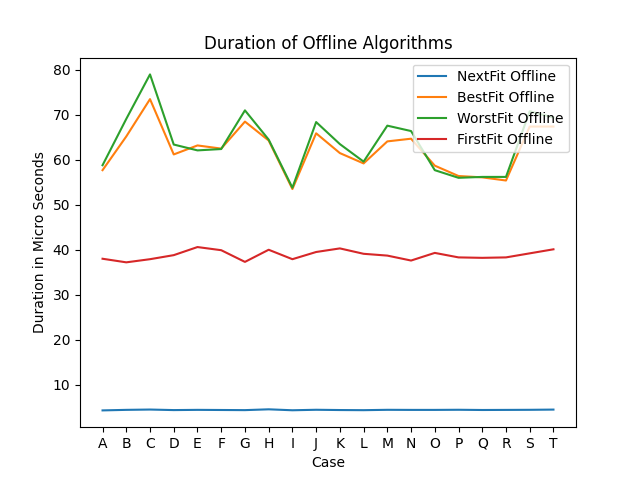
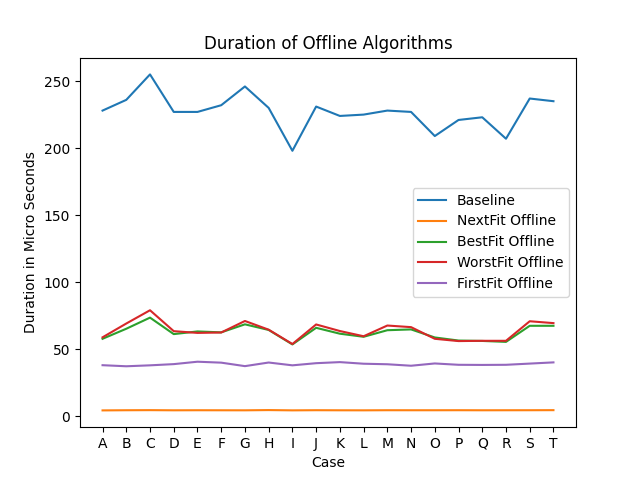
updated benchmark to include baseline

diff --git a/benchmark.py b/benchmark.py
@@ -1,14 +1,14 @@
 import pyperf
 from os import listdir
 from os.path import isfile, join, basename
-from macpacking.algorithms.baseline import MultiwayNumberPartitioning as base
+from macpacking.algorithms.baseline import BenMaier as bp_base, MultiwayNumberPartitioning as multiway_base
 from macpacking.algorithms.offline import (
     NextFitOff as NFOff,
     WorstFitOff as WFOff,
     BestFitOff as BFOff,
     FirstFitOff as FFOff,
     RefinedFirstFitOff as RffOff,
-    MultifitOff as MfOff
+    EmptiestBinOff as EbOff
 )
 
 from macpacking.algorithms.online import (
@@ -18,7 +18,7 @@ from macpacking.algorithms.online import (
     BestFitOn as BFOn,
     FirstFitOn as FFOn,
     RefinedFirstFitOn as RffOn,
-    MultifitOn as MfOn
+    EmptiestBinOn as EbOn
 )
 
 from macpacking.reader import BinppReader
@@ -31,18 +31,19 @@ from macpacking.multiway_adapter import MultiwayAdapter
 CASES = './_datasets/binpp/N1C3W2'
 
 OFFLINE_STRATEGIES = [
-    NFOff, WFOff, BFOff, FFOff, RffOff, base
+    NFOff, WFOff, BFOff, FFOff, RffOff, EbOff, bp_base, multiway_base
 ]
 
 ONLINE_STRATEGIES = [
-    NFOn, WS, WFOn, BFOn, FFOn, RffOn
+    NFOn, WS, WFOn, BFOn, FFOn, RffOn, EbOn
 ]
 
 
 def main():
     '''Example of benchmark code'''
     cases = list_case_files(CASES)
-    run_bench_TFive(cases, [base, MfOn, MfOff])
+    run_bench_binpacking(cases, [NFOff, WFOff, BFOff, FFOff, RffOff, bp_base, NFOn, WS, WFOn, BFOn, FFOn, RffOn])
+    run_bench_TFive(cases, [multiway_base, EbOn, EbOff])
 
 
 def list_case_files(dir: str) -> list[str]:
@@ -74,9 +75,6 @@ def run_bench_TFive(cases: list[str], functions: list):
                 
             name = f'{func.__name__}-{basename(case)}'
             binpacker = func()
-            # print(data)
-            # print(name)
-            # print(binpacker)
             runner.bench_func(name, binpacker, data)
 
 

diff --git a/analysis_tools/graph_bench_results.py b/analysis_tools/graph_bench_results.py
@@ -1,5 +1,26 @@
 import matplotlib.pyplot as plt
 # micro seconds
+Baseline_dur=[
+    228,
+    236,
+    255,
+    227,
+    227,
+    232,
+    246,
+    230,
+    198,
+    231,
+    224,
+    225,
+    228,
+    227,
+    209,
+    221,
+    223,
+    207,
+    237,
+    235]
 NFOff_dur = [
     4.27,
     4.39,
@@ -197,6 +218,27 @@ RffOn_dur = [199, 198, 199, 199, 203, 202, 201, 200, 200,
              199, 202, 200, 199, 199, 201, 200, 199, 200, 199, 200]
 
 # micro seconds
+Baseline_error = [
+    25, 
+    10, 
+    8, 
+    10, 
+    8, 
+    10, 
+    13, 
+    9, 
+    8, 
+    7, 
+    11, 
+    24, 
+    11, 
+    6, 
+    7, 
+    19, 
+    20, 
+    12, 
+    12, 
+    10]
 NFOff_error = [
     0.13,
     0.10,
@@ -244,6 +286,7 @@ def pltOffline():
     plt.clf()
 
     # Plot the points above point graph
+    plt.plot(file_names, Baseline_dur, label="Baseline")
     plt.plot(file_names, NFOff_dur, label="NextFit Offline")
     plt.plot(file_names, BFOff_dur, label="BestFit Offline")
     plt.plot(file_names, WFOff_dur, label="WorstFit Offline")
@@ -251,6 +294,8 @@ def pltOffline():
     plt.plot(file_names, RffOff_dur, label="RefinedFirstFit Offline")
 
     # Plt Error Bars
+    #plt.errorbar(file_names, Baseline_dur, yerr=Baseline_error,
+    #fmt='o', label = "Baseline")
     # plt.errorbar(file_names, NFOff_dur, yerr=NFOff_error,
     # fmt='o', label = "NextFit Offline")
     # plt.errorbar(file_names, BFOff_dur, yerr=BFOff_error,
@@ -261,7 +306,7 @@ def pltOffline():
     # fmt='o', label = "FirstFit Offline")
     # plt.errorbar(file_names, RffOff_dur, yerr=RffOff_error,
     # fmt='o', label = "FirstFit Offline")
-
+    
     plt.xlabel('Case')
     plt.ylabel('Duration in Micro Seconds')
     plt.title('Duration of Offline Algorithms')
